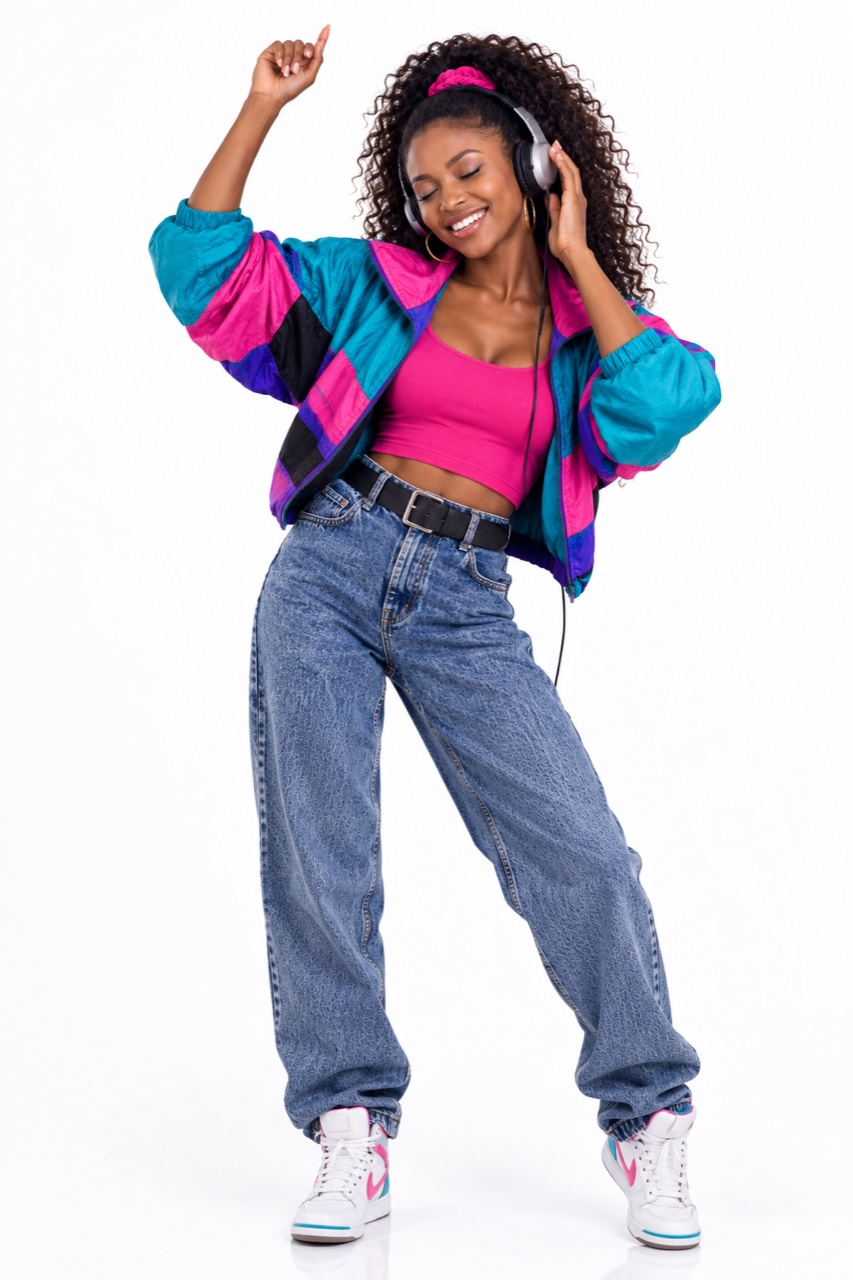
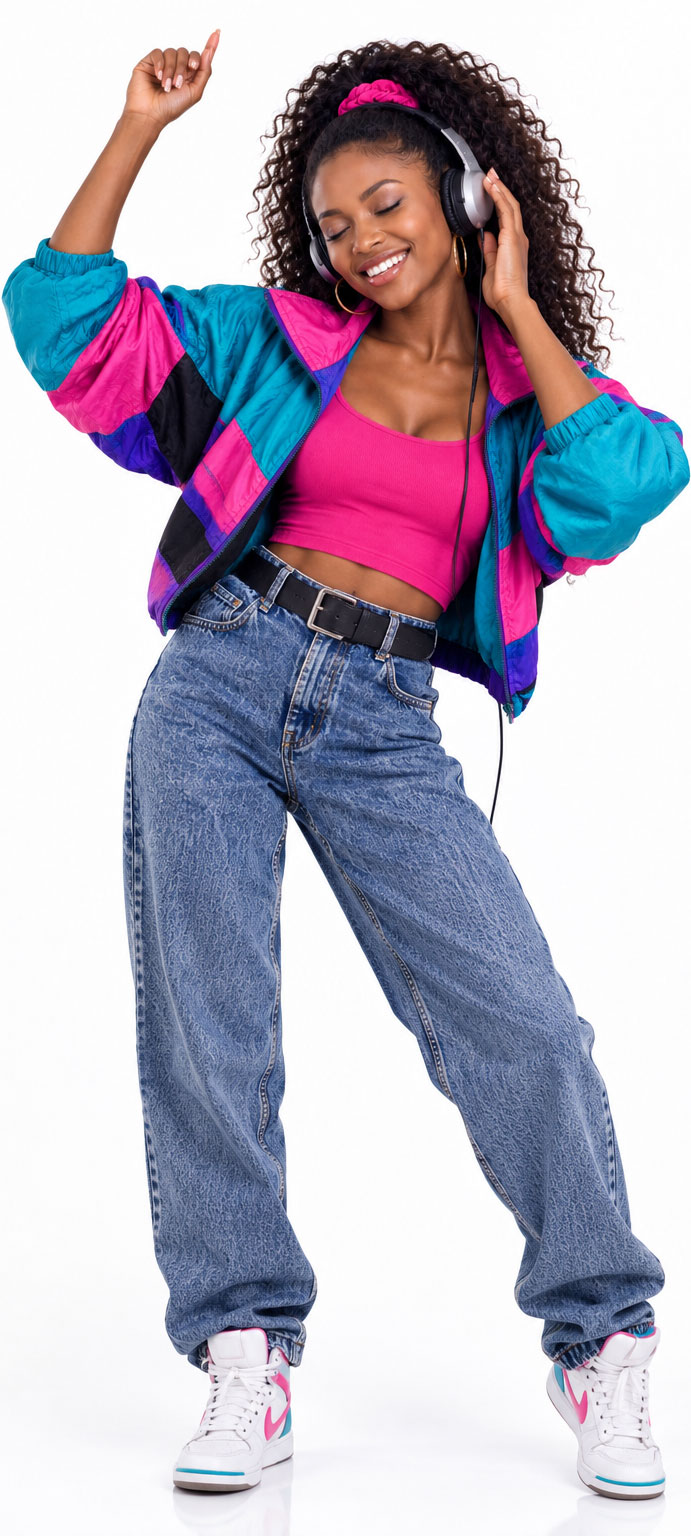
Onboarding: orange steps panel, blue pagination, slide transition, new full-height Jacinta image

diff --git a/lib/screens/onboarding_screen.dart b/lib/screens/onboarding_screen.dart
@@ -77,7 +77,7 @@ class _OnboardingScreenState extends State<OnboardingScreen> {
                       ],
                     ),
                   ),
-                  // Jacinta sits right on the card's edge, with the page dots over the bottom of her photo
+                  // Jacinta fills the height between the logo and the card, centred, with the page dots over the bottom of her photo
                   Expanded(
                     // Full width, or the Stack shrinks to the page dots and so does Jacinta
                     child: SizedBox(
@@ -88,8 +88,8 @@ class _OnboardingScreenState extends State<OnboardingScreen> {
                           Positioned.fill(
                             child: Image.asset(
                               'assets/brand_ambassador/jacinta-m6-player.jpg',
-                              fit: BoxFit.contain,
-                              alignment: Alignment.bottomCenter,
+                              fit: BoxFit.contain, // The photo is tall: it takes the full height, centred
+                              alignment: Alignment.center,
                               semanticLabel: "Jacinta, the M6 brand ambassador, dancing with headphones",
                             ),
                           ),
@@ -105,7 +105,7 @@ class _OnboardingScreenState extends State<OnboardingScreen> {
                                     width: i == _page ? 20 : 8,
                                     height: 8,
                                     decoration: BoxDecoration(
-                                      color: i == _page ? brandOrange : brandOrange.withValues(alpha: 0.4),
+                                      color: i == _page ? brandBlueDark : brandBlueDark.withValues(alpha: 0.35),
                                       borderRadius: BorderRadius.circular(4),
                                     ),
                                   ),
@@ -122,7 +122,7 @@ class _OnboardingScreenState extends State<OnboardingScreen> {
           ),
           Container(
             decoration: BoxDecoration(
-              color: brandBlueDark,
+              color: brandOrange,
               borderRadius: BorderRadius.vertical(top: Radius.circular(32)),
             ),
             child: SafeArea(
@@ -139,26 +139,31 @@ class _OnboardingScreenState extends State<OnboardingScreen> {
                   child: Column(
                     mainAxisSize: MainAxisSize.min,
                     children: [
-                      // All steps share one spot, so the card is as tall as the longest and doesn't jump
-                      Stack(
-                        alignment: Alignment.topCenter,
-                        children: [
-                          for (int i = 0; i < _pages.length; i++)
-                            AnimatedOpacity(
-                              duration: Duration(milliseconds: 200),
-                              opacity: i == _page ? 1 : 0,
-                              child: ExcludeSemantics(
-                                excluding: i != _page,
-                                child: _step(_pages[i].$1, _pages[i].$2),
+                      // All steps share one spot, so the card is as tall as the longest and doesn't jump.
+                      // They sit side by side, one screen width apart, and slide: Next moves them right
+                      // to left, going back moves them left to right.
+                      ClipRect(
+                        child: Stack(
+                          alignment: Alignment.topCenter,
+                          children: [
+                            for (int i = 0; i < _pages.length; i++)
+                              AnimatedSlide(
+                                duration: Duration(milliseconds: 300),
+                                curve: Curves.easeOutCubic,
+                                offset: Offset((i - _page).toDouble(), 0),
+                                child: ExcludeSemantics(
+                                  excluding: i != _page,
+                                  child: SizedBox(width: double.infinity, child: _step(_pages[i].$1, _pages[i].$2)),
+                                ),
                               ),
-                            ),
-                        ],
+                          ],
+                        ),
                       ),
                       SizedBox(height: 12),
                       SizedBox(
                         width: double.infinity,
                         child: FilledButton(
-                          style: FilledButton.styleFrom(backgroundColor: Colors.white, foregroundColor: brandBlueDark),
+                          style: FilledButton.styleFrom(backgroundColor: Colors.white, foregroundColor: brandOrange),
                           onPressed: last ? _finish : () => setState(() => _page++),
                           child: Text(last ? "Get started" : "Next"),
                         ),
